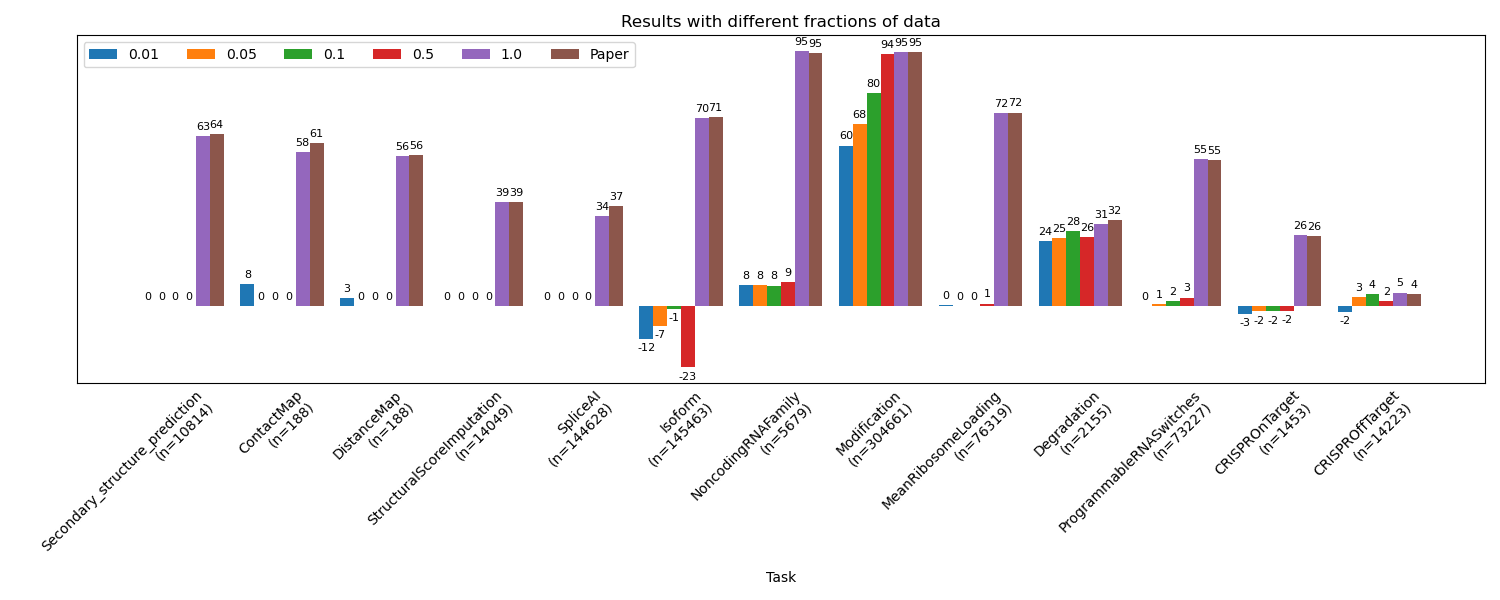
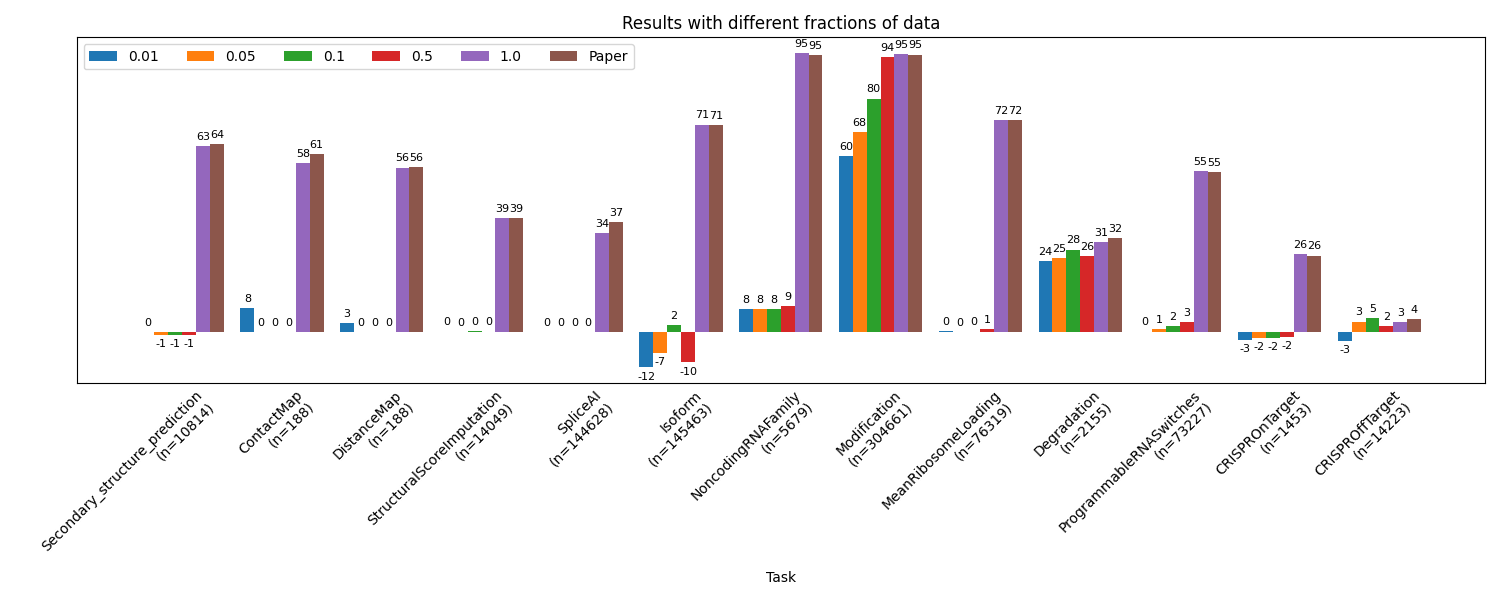
fix empty results if eval never exceeds 0.0 and reduce patients to 10 for some tasks

diff --git a/downstream/train_secondary_structure.py b/downstream/train_secondary_structure.py
@@ -151,6 +151,7 @@ def main(args):
 
     model_config = extractor.config
     model = SSCNNPredictor(args, extractor, model_config, tokenizer, args.is_freeze)
+    print(next(model.parameters()))
     num_params = count_parameters(model)
     print(f"model params are: {num_params}")
 
@@ -200,7 +201,7 @@ def main(args):
     val_loss_list = []
     test_loss_list = []
     step = 0
-    last_val, best_val, best_test = 0, 0, {}
+    last_val, best_val, best_test = -1, -1, {}
     patience = args.patience
     early_stop_flag = 0
     for epoch in range(args.num_epochs):

diff --git a/accum_results.py b/accum_results.py
@@ -90,7 +90,8 @@ for limit in limits:
                 with open(eval_file, 'r') as f:
                     results : dict = json.load(f)
                     if not results:
-                        limit_results[task] = 0
+                        limit_results[task] = -0.01
+                        print(f"Results for {task}: Empty results found at {eval_file}")
                     else:
                         metric = results[task_to_metric[task]]
                         limit_results[task] = metric

diff --git a/downstream/train_distance_map.py b/downstream/train_distance_map.py
@@ -203,7 +203,7 @@ def main(args):
     val_loss_list = []
     test_loss_list = []
     step = 0
-    last_val, best_val, best_test = -100, -100, []
+    last_val, best_val, best_test = -1, -1, []
     patience = args.patience
     early_stop_flag = 0
     for epoch in range(args.num_epochs):

diff --git a/downstream/train_contact_map.py b/downstream/train_contact_map.py
@@ -256,7 +256,7 @@ def main(args):
     val_loss_list = []
     test_loss_list = []
     step = 0
-    last_val, best_val, best_test = 0, 0, []
+    last_val, best_val, best_test = -1, -1, []
     patience = args.patience
     early_stop_flag = 0
     for epoch in range(args.num_epochs):
